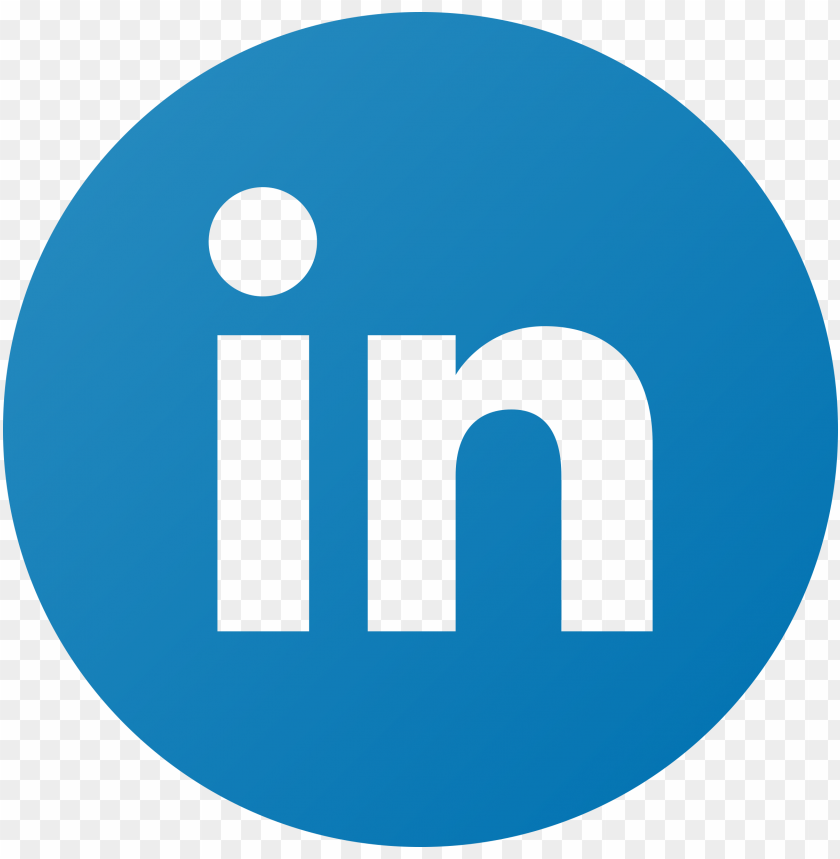
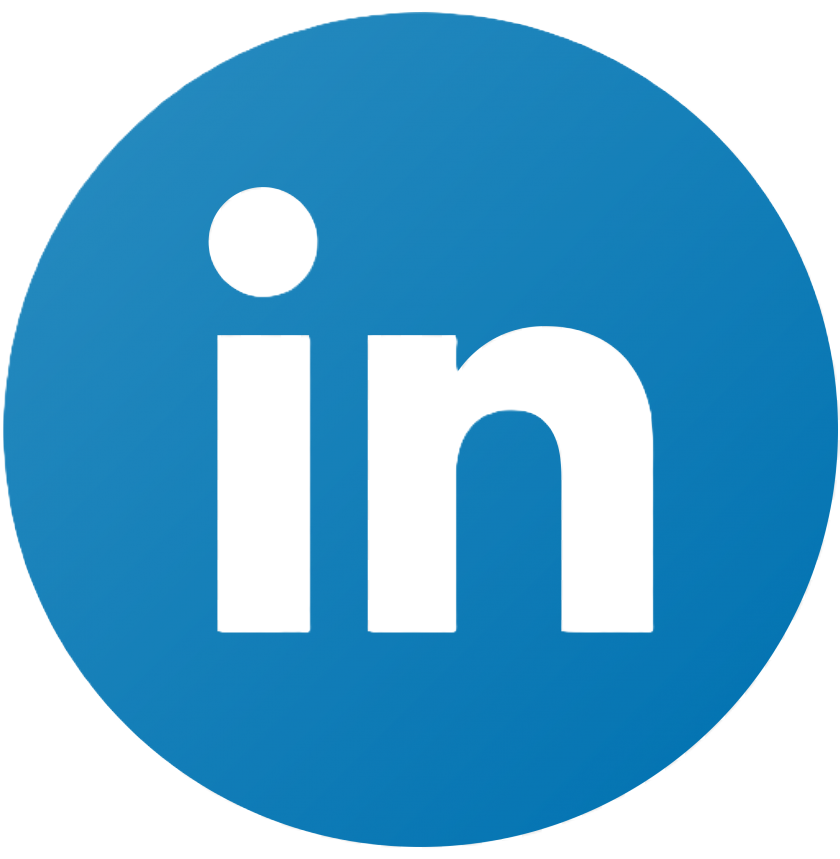
Another footer fix
and linked in image cut out

diff --git a/_includes/footer.html b/_includes/footer.html
@@ -2,8 +2,8 @@
 
 <span style="float: right;">
 
-<a class="no-center" href = "https://www.linkedin.com/in/north-carpenter/" target="_self"><img src="images/linked-in.png" alt="LinkedIn logo" width="20"></a>
-<a class="no-center" href = "https://github.com/NorthCarpenter" target = "_self"><img src = "/images/github.png" alt = "Github logo" width="20"></a>
+<a href = "https://www.linkedin.com/in/north-carpenter/" target="_self"><img class="no-center" src="images/linked-in.png" alt="LinkedIn logo" width="20"></a>
+<a href = "https://github.com/NorthCarpenter" target = "_self"><img class="no-center" src = "/images/github.png" alt = "Github logo" width="20"></a>
 
 <span xmlns:dct="http://purl.org/dc/terms/">
 <a rel="license" href="http://creativecommons.org/publicdomain/zero/1.0/" target="_self">

diff --git a/_layouts/default.html b/_layouts/default.html
@@ -23,21 +23,19 @@
 </head>
 
 <body>
-    <div id="grid-container">
-        <header>
-            <a href="/" style="text-decoration: none; color: black;"><h1>{{ page.title }}</h1></a>
-        </header>
-        <!-- Navigation -->
-        {% include navigation.html %}
+    <header>
+        <a href="/" style="text-decoration: none; color: black;"><h1>{{ page.title }}</h1></a>
+    </header>
+    <!-- Navigation -->
+    {% include navigation.html %}
 
-        <!-- Content -->
-        {{ content }}
+    <!-- Content -->
+    {{ content }}
 
-        <footer>
-        <!-- Footer -->
-        {% include footer.html %}
-        </footer>
-    </div>
+    <footer>
+    <!-- Footer -->
+    {% include footer.html %}
+    </footer>
 </body>
 
 

diff --git a/Projects/Research/research.html b/Projects/Research/research.html
@@ -10,5 +10,5 @@ layout: default
     <h3>Comparing County Level Movement and Consumer Purchases</h3>
      <img src="assets/lab8_final_ncarpen1.jpg" 
         alt="Movment and Spending" class="wider">
-    <p>This is a poster I made with Arc GIS based on data from Opportunity Insights data. </p>
+    <p>This is a poster I made with Arc GIS based on data from Opportunity Insights. </p>
 </body>
